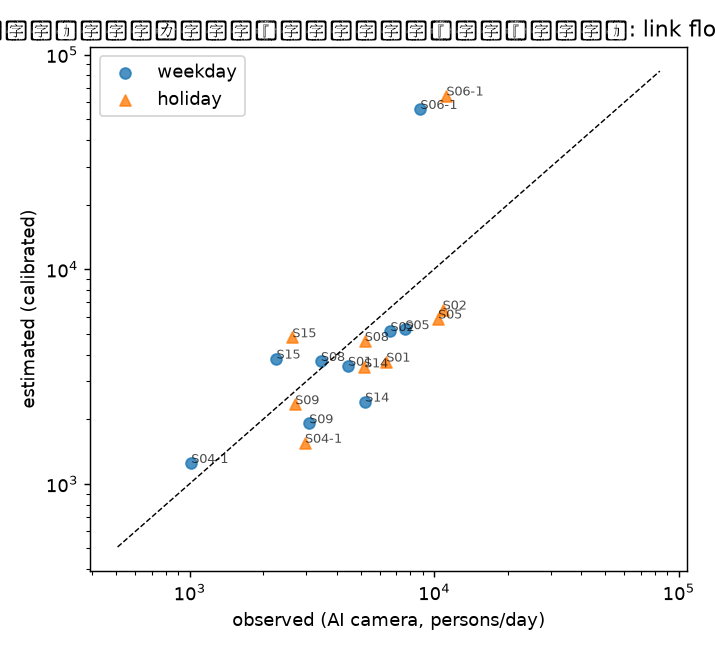
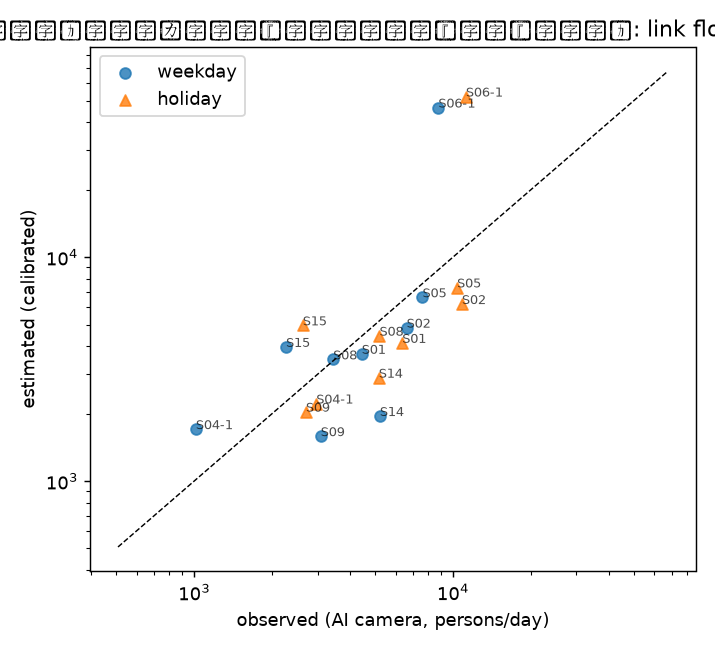
岡山を新しい採用規則で再較正する
採用: half_distance=350m, access_weight=100, k=0.2655

  指標                      v0.6    v0.7
  Spearman (in-sample)     0.631   0.723
  ブロック別スケール CV       0.685   0.717
  MAPE (in-sample)         0.655   0.785

同じ CV 0.717 の点が 3 つあり、そのうち MAPE 最小の点が選ばれた（前回の規則では
MAPE 0.883 の点が選ばれていた）。順位精度を落とさずに絶対値の誤差を 11% 改善。

Claude-Session: https://claude.ai/code/session_013yTYi7eveERJj9Vynd4cov

diff --git a/jinryu-proto/docs/EVAL.md b/jinryu-proto/docs/EVAL.md
@@ -2,14 +2,14 @@
 
 - 基準期間: 2019-10（人流オープンデータ）／実測: 岡山市 AIカメラ通行量（2024年〜）の全月平均
 - 較正地点数: 9 箇所（街路地点のみ。地下街・入退場・広場地点は除外）× 平日/休日 = 18 観測
-- 採用パラメータ: half_distance = 600 m, 到着端 access_weight = 300, スケール k = 0.1107
+- 採用パラメータ: half_distance = 350 m, 到着端 access_weight = 100, スケール k = 0.2655
 
 ## 指標
 
 | 評価 | n | Spearman | MAPE | 上位20%一致率 |
 |---|---|---|---|---|
-| in-sample | 18 | 0.756 | 0.883 | 1.0 |
-| ブロック別スケール CV (leave-one-block-out: ekimae, heiwacho, hokancho, omotecho／再推定するのはスケール k のみ) | 18 | 0.717 | 1.029 | 0.75 |
+| in-sample | 18 | 0.723 | 0.785 | 0.75 |
+| ブロック別スケール CV (leave-one-block-out: ekimae, heiwacho, hokancho, omotecho／再推定するのはスケール k のみ) | 18 | 0.717 | 0.908 | 0.75 |
 
 H1 の目標 Spearman ≥ 0.6: **達成**
 
@@ -42,24 +42,24 @@ H1 の目標 Spearman ≥ 0.6: **達成**
 
 | 地点 | ブロック | 平休 | 実測 | 合成値 | 推定 | 比 |
 |---|---|---|---|---|---|---|
-| S05 岡山駅前商店街（ビックカメラ商店街入口付近） | ekimae | holiday | 10373 | 53124 | 5883 | 0.57 |
-| S05 岡山駅前商店街（ビックカメラ商店街入口付近） | ekimae | weekday | 7627 | 47388 | 5248 | 0.69 |
-| S06-1 本町（髙島屋東付近） | ekimae | holiday | 11220 | 581935 | 64447 | 5.74 |
-| S06-1 本町（髙島屋東付近） | ekimae | weekday | 8781 | 503956 | 55811 | 6.36 |
-| S14 平和町１（ハレまち通り平和橋付近） | heiwacho | holiday | 5168 | 31486 | 3487 | 0.67 |
-| S14 平和町１（ハレまち通り平和橋付近） | heiwacho | weekday | 5219 | 21801 | 2414 | 0.46 |
-| S15 平和町２（西川緑道公園平和橋付近） | heiwacho | holiday | 2628 | 43466 | 4814 | 1.83 |
-| S15 平和町２（西川緑道公園平和橋付近） | heiwacho | weekday | 2264 | 34580 | 3830 | 1.69 |
-| S08 奉還町商店街（りぶら付近） | hokancho | holiday | 5201 | 41787 | 4628 | 0.89 |
-| S08 奉還町商店街（りぶら付近） | hokancho | weekday | 3443 | 33698 | 3732 | 1.08 |
-| S09 西奉還町商店街（奉還町３丁目付近） | hokancho | holiday | 2702 | 21193 | 2347 | 0.87 |
-| S09 西奉還町商店街（奉還町３丁目付近） | hokancho | weekday | 3083 | 17283 | 1914 | 0.62 |
-| S01 表町・上之町商店街（北時計台付近） | omotecho | holiday | 6368 | 33475 | 3707 | 0.58 |
-| S01 表町・上之町商店街（北時計台付近） | omotecho | weekday | 4443 | 32026 | 3547 | 0.80 |
-| S02 表町・中之町商店街（天満屋北付近） | omotecho | holiday | 10831 | 58572 | 6487 | 0.60 |
-| S02 表町・中之町商店街（天満屋北付近） | omotecho | weekday | 6622 | 46484 | 5148 | 0.78 |
-| S04-1 表町・千日前商店街（千日前ハレノワ通り付近） | omotecho | holiday | 2963 | 14020 | 1553 | 0.52 |
-| S04-1 表町・千日前商店街（千日前ハレノワ通り付近） | omotecho | weekday | 1015 | 11283 | 1250 | 1.23 |
+| S05 岡山駅前商店街（ビックカメラ商店街入口付近） | ekimae | holiday | 10373 | 27560 | 7318 | 0.71 |
+| S05 岡山駅前商店街（ビックカメラ商店街入口付近） | ekimae | weekday | 7627 | 24918 | 6616 | 0.87 |
+| S06-1 本町（髙島屋東付近） | ekimae | holiday | 11220 | 196435 | 52158 | 4.65 |
+| S06-1 本町（髙島屋東付近） | ekimae | weekday | 8781 | 175413 | 46576 | 5.30 |
+| S14 平和町１（ハレまち通り平和橋付近） | heiwacho | holiday | 5168 | 10900 | 2894 | 0.56 |
+| S14 平和町１（ハレまち通り平和橋付近） | heiwacho | weekday | 5219 | 7348 | 1951 | 0.37 |
+| S15 平和町２（西川緑道公園平和橋付近） | heiwacho | holiday | 2628 | 18670 | 4957 | 1.89 |
+| S15 平和町２（西川緑道公園平和橋付近） | heiwacho | weekday | 2264 | 14954 | 3971 | 1.75 |
+| S08 奉還町商店街（りぶら付近） | hokancho | holiday | 5201 | 16780 | 4455 | 0.86 |
+| S08 奉還町商店街（りぶら付近） | hokancho | weekday | 3443 | 13154 | 3493 | 1.01 |
+| S09 西奉還町商店街（奉還町３丁目付近） | hokancho | holiday | 2702 | 7680 | 2039 | 0.75 |
+| S09 西奉還町商店街（奉還町３丁目付近） | hokancho | weekday | 3083 | 5971 | 1586 | 0.51 |
+| S01 表町・上之町商店街（北時計台付近） | omotecho | holiday | 6368 | 15589 | 4139 | 0.65 |
+| S01 表町・上之町商店街（北時計台付近） | omotecho | weekday | 4443 | 13931 | 3699 | 0.83 |
+| S02 表町・中之町商店街（天満屋北付近） | omotecho | holiday | 10831 | 23245 | 6172 | 0.57 |
+| S02 表町・中之町商店街（天満屋北付近） | omotecho | weekday | 6622 | 18239 | 4843 | 0.73 |
+| S04-1 表町・千日前商店街（千日前ハレノワ通り付近） | omotecho | holiday | 2963 | 8357 | 2219 | 0.75 |
+| S04-1 表町・千日前商店街（千日前ハレノワ通り付近） | omotecho | weekday | 1015 | 6422 | 1705 | 1.68 |
 
 ## 外れ値と考察（v0.1）
 
